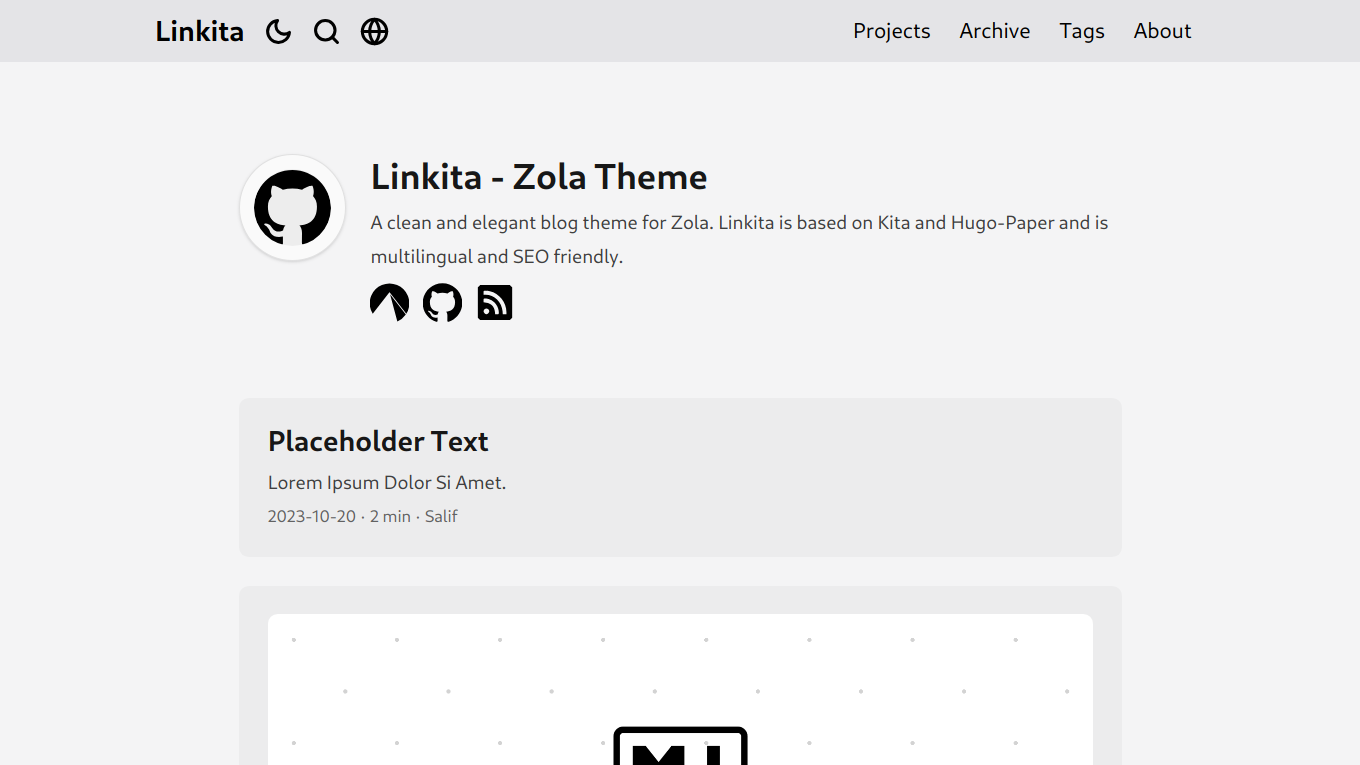
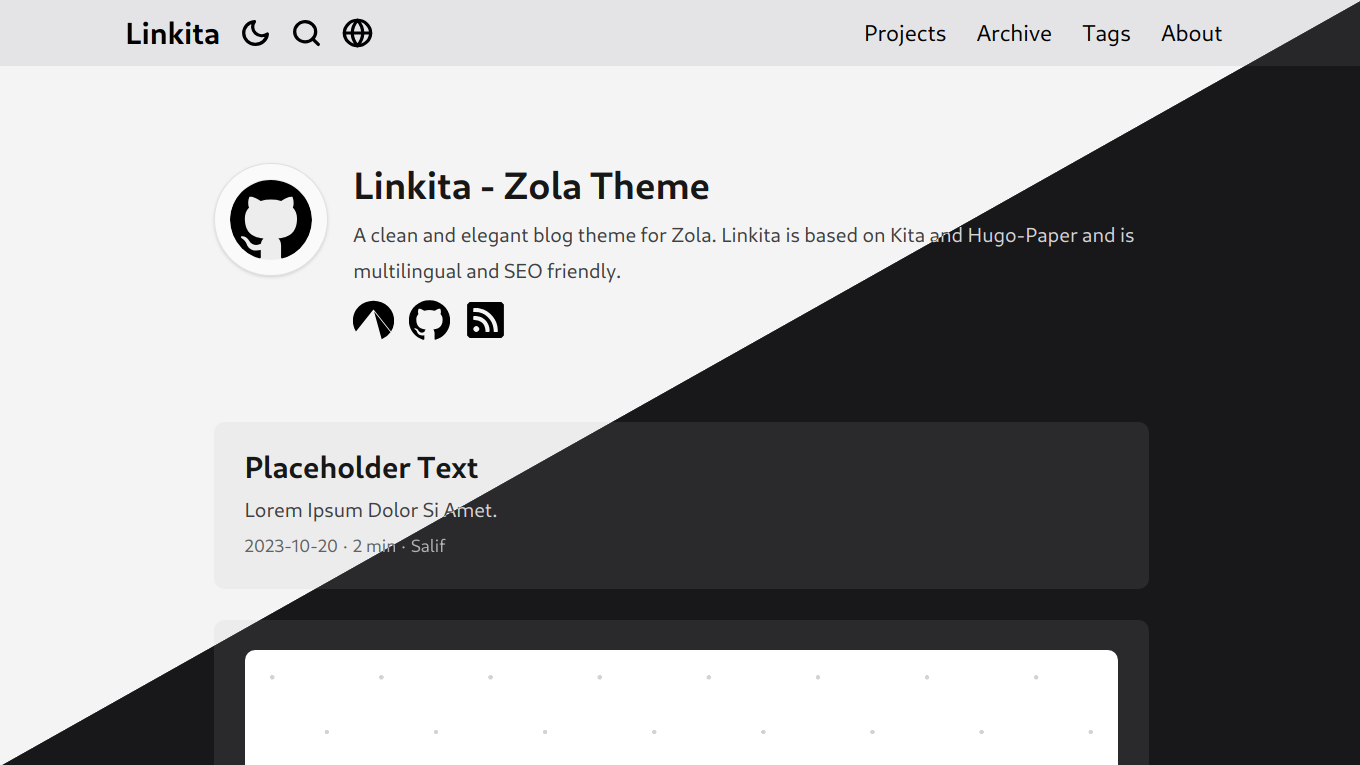
Update screenshot

diff --git a/templates/partials/head.html b/templates/partials/head.html
@@ -1,11 +1,11 @@
-{%- set config_title = config.title | default(value="") | truncate(length=64) %}
+{%- set config_title = config.title | default(value="") | truncate(length=100) %}
 {%- set title_separator = config.extra.title_separator | default(value= " | ") %}
   <meta charset="utf-8" />
   <meta http-equiv="X-UA-Compatible" content="IE=edge" />
   <meta name="viewport" content="width=device-width, initial-scale=1, shrink-to-fit=no" />
   <meta name="generator" content="Zola" />
 {%- if page.title %}
-  {%- set page_title = page.title | truncate(length=150) %}
+  {%- set page_title = page.title | truncate(length=200) %}
   {%- if page.description %}
     {%- set page_description = page.description %}
   {%- elif page.summary %}
@@ -30,7 +30,7 @@
     {%- endif %}
   {%- endif %}
 {%- elif section.title %}
-  {%- set page_title = section.title | truncate(length=150) %}
+  {%- set page_title = section.title | truncate(length=200) %}
   {%- if section.description %}
     {%- set page_description = section.description %}
   {%- endif %}
@@ -50,14 +50,14 @@
     if page_title == config_title %}{{ page_title }}{%
     else %}{{ page_title ~ title_separator ~ config_title }}{%
     endif %}</title>
-  <meta property="og:site_name" content="{{ config_title | linebreaksbr | truncate(length=150) | escape_xml | safe }}" />
+  <meta property="og:site_name" content="{{ config_title | linebreaksbr | truncate(length=100) | escape_xml | safe }}" />
   {%- else %}
   <title>{{ page_title }}</title>
   {%- endif %}
-  <meta property="og:title" content="{{ page_title | linebreaksbr | truncate(length=150) | escape_xml | safe }}" />
+  <meta property="og:title" content="{{ page_title | linebreaksbr | truncate(length=200) | escape_xml | safe }}" />
 {%- endif %}
 {%- if page_description %}
-  <meta name="description" content="{{ page_description | linebreaksbr | truncate(length=150, end=`…`) | escape_xml | safe }}" />
+  <meta name="description" content="{{ page_description | linebreaksbr | truncate(length=200, end=`…`) | escape_xml | safe }}" />
   <meta property="og:description" content="{{ page_description | linebreaksbr | truncate(length=300, end=`…`) | escape_xml | safe }}" />
 {%- endif %}
 {%- if current_url %}
@@ -180,7 +180,7 @@
     {%- endif %}
   {%- endif %}
   <meta property="og:image" content="{{ get_url(path=og_image_path) }}" />
-  <meta property="og:image:alt" content="{{ og_image_alt | linebreaksbr | truncate(length=300) | escape_xml | safe }}" />
+  <meta property="og:image:alt" content="{{ og_image_alt | linebreaksbr | truncate(length=500) | escape_xml | safe }}" />
   {%- if g_image_data.width is defined and g_image_data.height is defined %}
   <meta property="og:image:width" content="{{ g_image_data.width | int }}" />
   <meta property="og:image:height" content="{{ g_image_data.height | int }}" />

diff --git a/README.md b/README.md
@@ -5,7 +5,7 @@ A clean and elegant blog theme for [Zola](https://www.getzola.org/). Linkita is 
 - The source code is available on [Codeberg](https://codeberg.org/salif/linkita) and mirrored on [GitHub](https://github.com/salif/linkita).
 - For discussion, join the [Matrix chat room](https://matrix.to/#/#linkita:mozilla.org).
 - Open bug reports and feature requests on [Codeberg](https://codeberg.org/salif/linkita/issues).
-- See [demo source code](https://codeberg.org/salif/linkita-demo) and screenshots for [light mode](https://codeberg.org/salif/linkita/src/branch/linkita/screenshot.png) and [dark mode](https://codeberg.org/salif/linkita/src/branch/linkita/screenshot.dark.png).
+- See [demo source code](https://codeberg.org/salif/linkita-demo).
 - Live preview in:
   - [English](https://salif.github.io/linkita/en/), [Bulgarian](https://salif.github.io/linkita/), [Esperanto](https://salif.github.io/linkita/eo/).
   - [Chinese](https://salif.github.io/linkita/zh/), [Arabic](https://salif.github.io/linkita/ar/), [Turkish](https://salif.github.io/linkita/tr/), [Globasa](https://salif.github.io/linkita/gb/).
@@ -795,9 +795,6 @@ See the [MIT License](https://codeberg.org/salif/linkita/src/branch/linkita/LICE
 ## Contributing
 
 Pull requests are welcome on [Codeberg](https://codeberg.org/salif/linkita) and [Github](https://github.com/salif/linkita).
-
-If you notice even the slightest ambiguity or bug in this repo,
-report it IMMEDIATELY, before it breeds and takes over the entire project!
 
 ## Sites using Linkita
 
